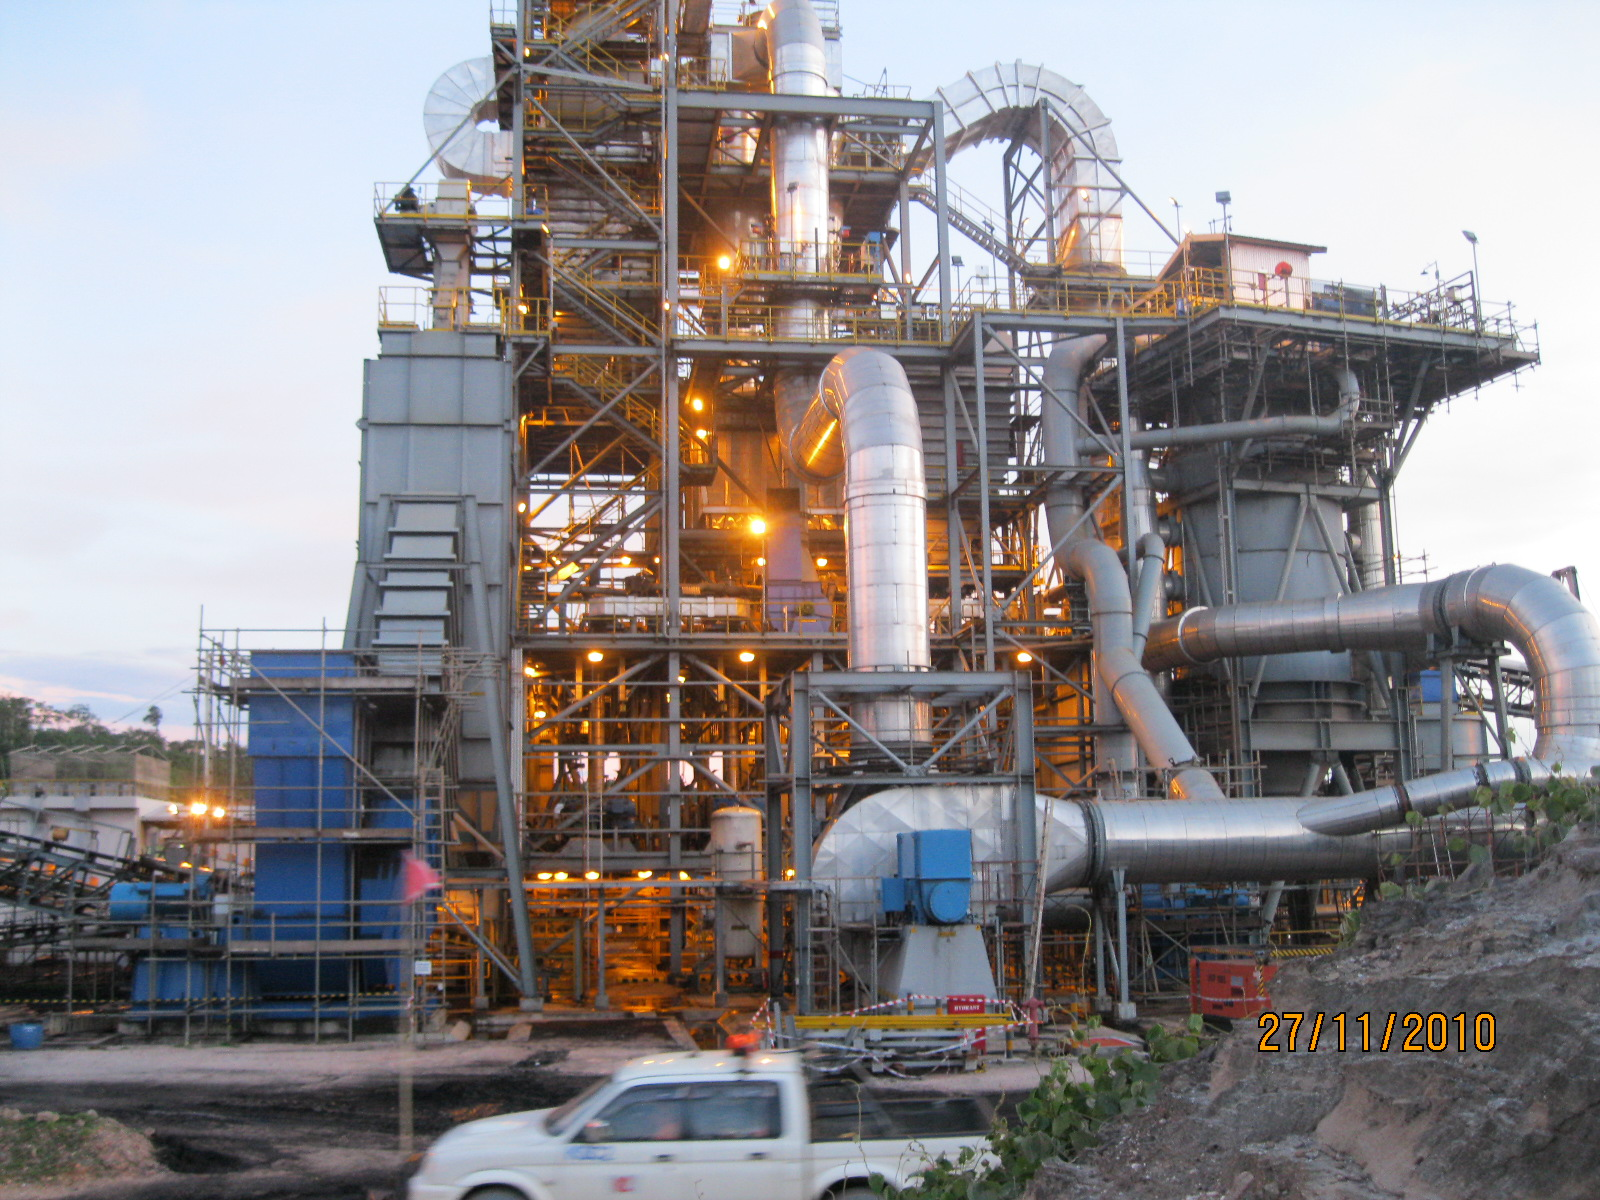
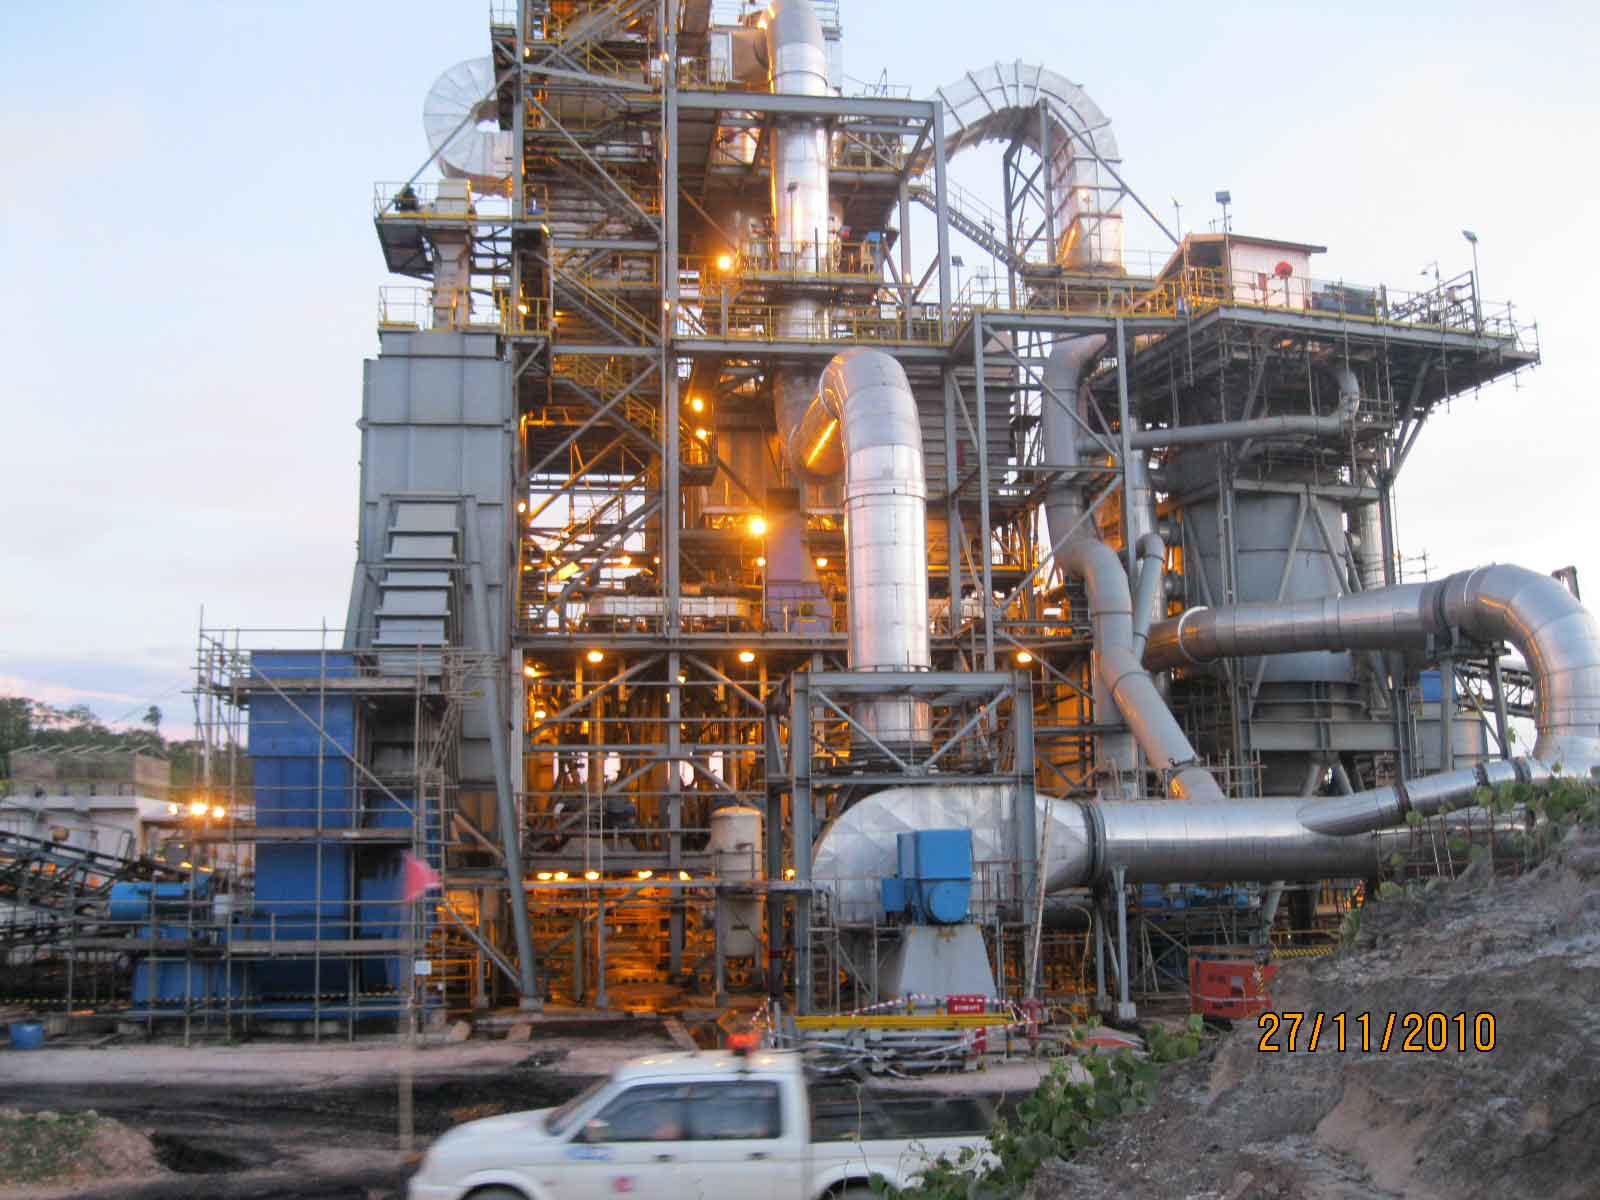
remove !important in css and compress images in work section

diff --git a/resume/index.html b/resume/index.html
@@ -44,7 +44,7 @@
 	<div class="navbar-fixed">
 		<nav id="menu">
 			<div class="nav-wrapper blue-grey darken-1">
-				<a href="#" class="brand-logo"><span class="deep-orange-text text-lighten-2">Orange</span> & <span class="grey-text">Grey</span></a>
+				<a href="#" class="brand-logo site-title"><span class="deep-orange-text text-lighten-2">Orange</span> & <span class="grey-text">Grey</span></a>
 				<ul id="nav-mobile" class="right hide-on-med-and-down">
 					
 					<li><a href="#about" class="blue-grey darken-1 deep-orange-text text-lighten-2">Summary</a>
@@ -281,7 +281,7 @@
 						<!--I'd like to define images in the css, rather than using <img>-->
 						
 					</div>
-					<div class="card-content deep-orange lighten-2 valign-wrapper">
+					<div class="card-content smaller deep-orange lighten-2 valign-wrapper">
 						<p class="small-text valign">PT. Asmin Koalindo Tuhup, Indonesia, Coking Coal Project, Site Muara Tuhup, Central Borneo, Indonesia</p>
 					</div>
 					<div class="title-overlay center-align">
@@ -300,7 +300,7 @@
 						<!--I'd like to define images in the css, rather than using <img>-->
 						
 					</div>
-					<div class="card-content deep-orange lighten-2 valign-wrapper">
+					<div class="card-content smaller deep-orange lighten-2 valign-wrapper">
 						<p class="small-text valign">PT. Kaltim Supacoal Coal Upgrade Project, Tabang Site, East Borneo, Indonesia</p>
 					</div>
 					<div class="title-overlay center-align">
@@ -319,7 +319,7 @@
 						<!--I'd like to define images in the css, rather than using <img>-->
 						
 					</div>
-					<div class="card-content deep-orange lighten-2 valign-wrapper">
+					<div class="card-content smaller deep-orange lighten-2 valign-wrapper">
 						<p class="small-text valign">TINEM Sulawesi Area Project, Palu, Central Sulawesi, Indonesia</p>
 					</div>
 					<div class="title-overlay center-align">
@@ -338,7 +338,7 @@
 						<!--I'd like to define images in the css, rather than using <img>-->
 						
 					</div>
-					<div class="card-content deep-orange lighten-2 valign-wrapper">
+					<div class="card-content smaller deep-orange lighten-2 valign-wrapper">
 						<p class="small-text valign">ConocoPhillips Suban Phase II Gas Project, Musi Banyuasin, South Sumatera, Indonesia</p>
 					</div>
 					<div class="title-overlay center-align">
@@ -357,7 +357,7 @@
 						<!--I'd like to define images in the css, rather than using <img>-->
 						
 					</div>
-					<div class="card-content deep-orange lighten-2 valign-wrapper">
+					<div class="card-content smaller deep-orange lighten-2 valign-wrapper">
 						<p class="small-text valign">British Petroleum LNG Tangguh Project, West Papua, Indonesia</p>
 					</div>
 					<div class="title-overlay center-align">
@@ -485,7 +485,7 @@
 
     
   </div>
-  <footer class="page-footer deep-orange lighten-2">
+  <footer class="page-footer no-margin deep-orange lighten-2">
 	<div class="container">
 		<div class="row">
 			<div class="col l6 s12">

diff --git a/css/resume.css b/css/resume.css
@@ -1,11 +1,11 @@
 @import url("https://fonts.googleapis.com/css?family=Open+Sans:400,300,700,800|Roboto+Slab:400,300,700,100");
 /* Banner */
-.brand-logo {
-  padding: 0 15px !important; }
+.brand-logo.site-title {
+  padding: 0 15px; }
 
 @media screen and (max-width: 400px) {
-  .brand-logo {
-    font-size: 20px !important; } }
+  .brand-logo.site-title {
+    font-size: 20px; } }
 .banner {
   position: fixed;
   top: 0;
@@ -28,7 +28,7 @@
  * in sections inside the main-content class. */
 /* Change base color & layout */
 html {
-  font-family: "Open Sans", sans-serif !important; }
+  font-family: "Open Sans", sans-serif; }
 
 h1, h2, h3, h4, h6 {
   padding-bottom: 30px;
@@ -54,7 +54,7 @@ section {
 
 .summary {
   border-radius: 3px;
-  padding: 10px 20px !important; }
+  padding: 10px 20px; }
   .summary .about {
     text-align: justify;
     font-weight: 200; }
@@ -71,12 +71,12 @@ section {
 /*font-size: 18px
  * font-weight: 400 */
 /* Footer */
-.page-footer {
-  margin-top: 0 !important;
-  padding-top: 40px !important; }
-  .page-footer li {
+.page-footer.no-margin {
+  margin-top: 0;
+  padding-top: 40px; }
+  .page-footer.no-margin li {
     display: inline; }
-    .page-footer li i {
+    .page-footer.no-margin li i {
       padding-right: 5px; }
 
 /* Skill section
@@ -123,7 +123,7 @@ section {
       background: rgba(213, 213, 213, 0.5); }
 
 div.container p.small-text {
-  font-size: 0.9em !important; }
+  font-size: 0.9em; }
 
 @media screen and (max-width: 360px) {
   .skill-type {
@@ -165,9 +165,9 @@ div.card.medium {
 .card {
   overflow: hidden;
   cursor: pointer; }
-  .card .card-content {
-    height: 100px !important;
-    padding: 20px !important;
+  .card .card-content.smaller {
+    height: 100px;
+    padding: 20px;
     text-align: justify; }
   .card .title-overlay {
     font-size: 16px;
@@ -201,17 +201,17 @@ div.card.medium {
 .input-field input[type=text]:focus + label,
 .input-field input[type=email]:focus + label,
 .input-field textarea.materialize-textarea:focus + label {
-  color: #ff8a65 !important; }
+  color: #ff8a65; }
 
 .input-field input[type=text]:focus,
 .input-field input[type=email]:focus,
 .input-field textarea.materialize-textarea:focus {
-  border-bottom: 1px solid #ff8a65 !important;
-  box-shadow: 0 1px 0 0 #ff8a65 !important; }
+  border-bottom: 1px solid #ff8a65;
+  box-shadow: 0 1px 0 0 #ff8a65; }
 
 /* icon prefix focus color */
 .input-field .prefix.active {
-  color: #ff5722 !important; }
+  color: #ff5722; }
 
 @media screen and (max-width: 360px) {
   #contact .container {
